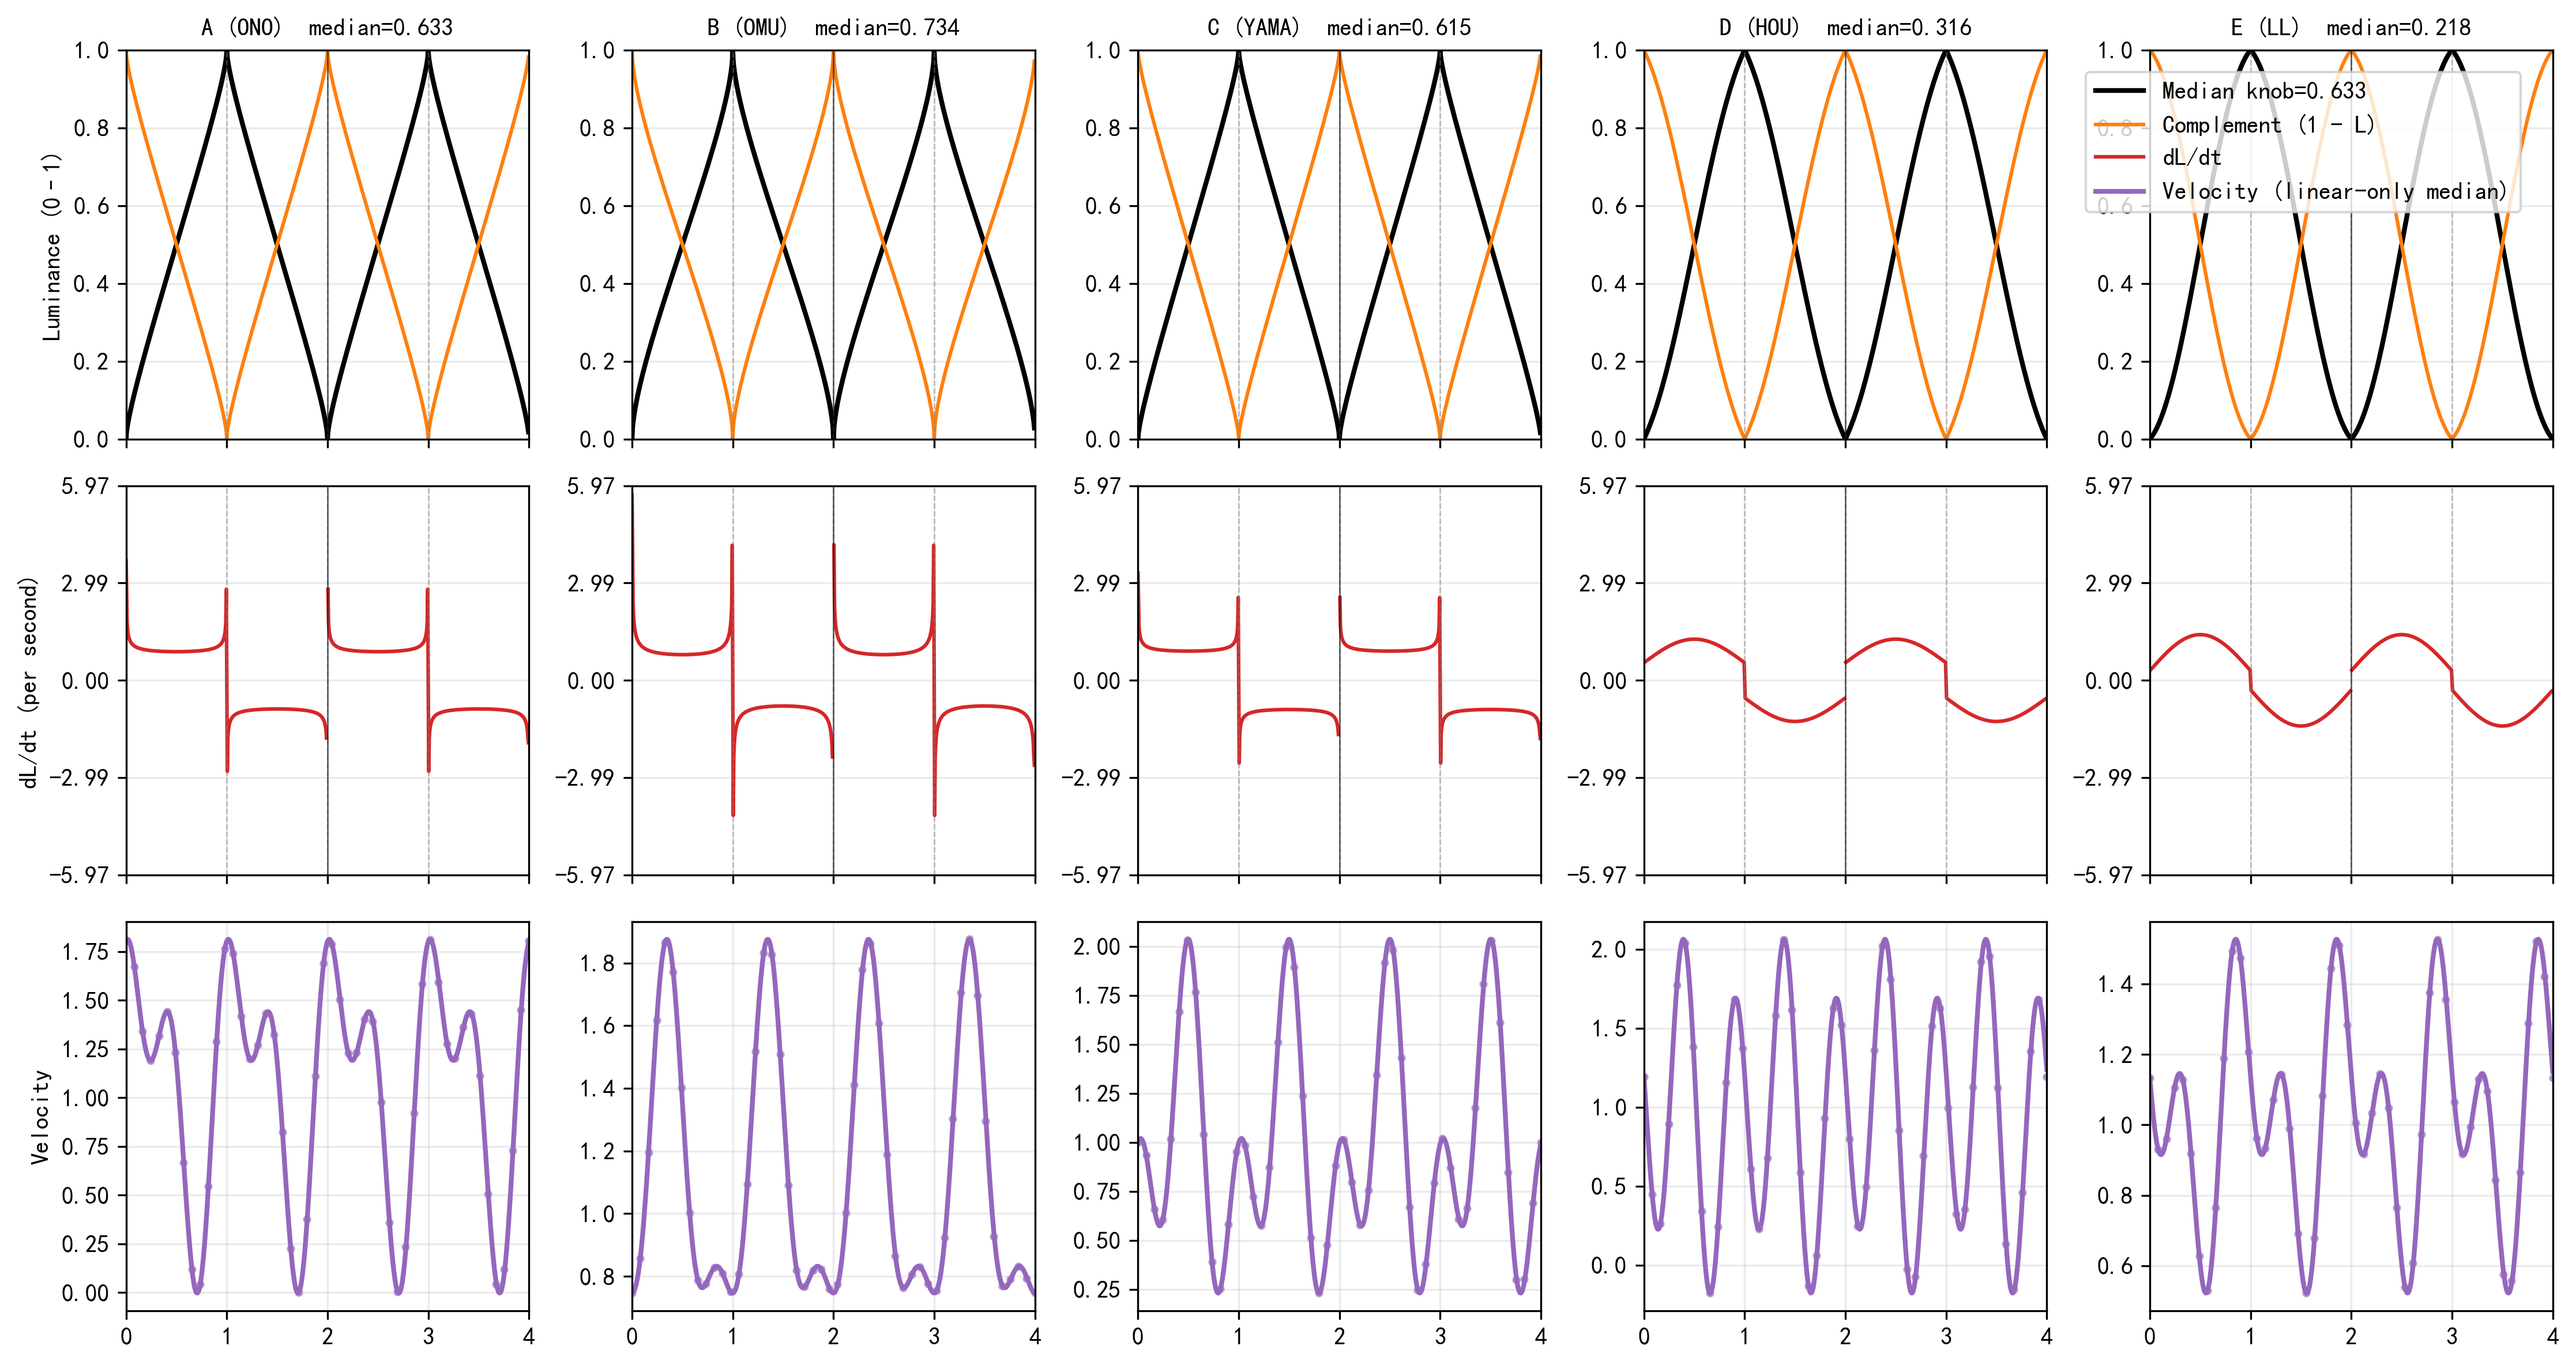
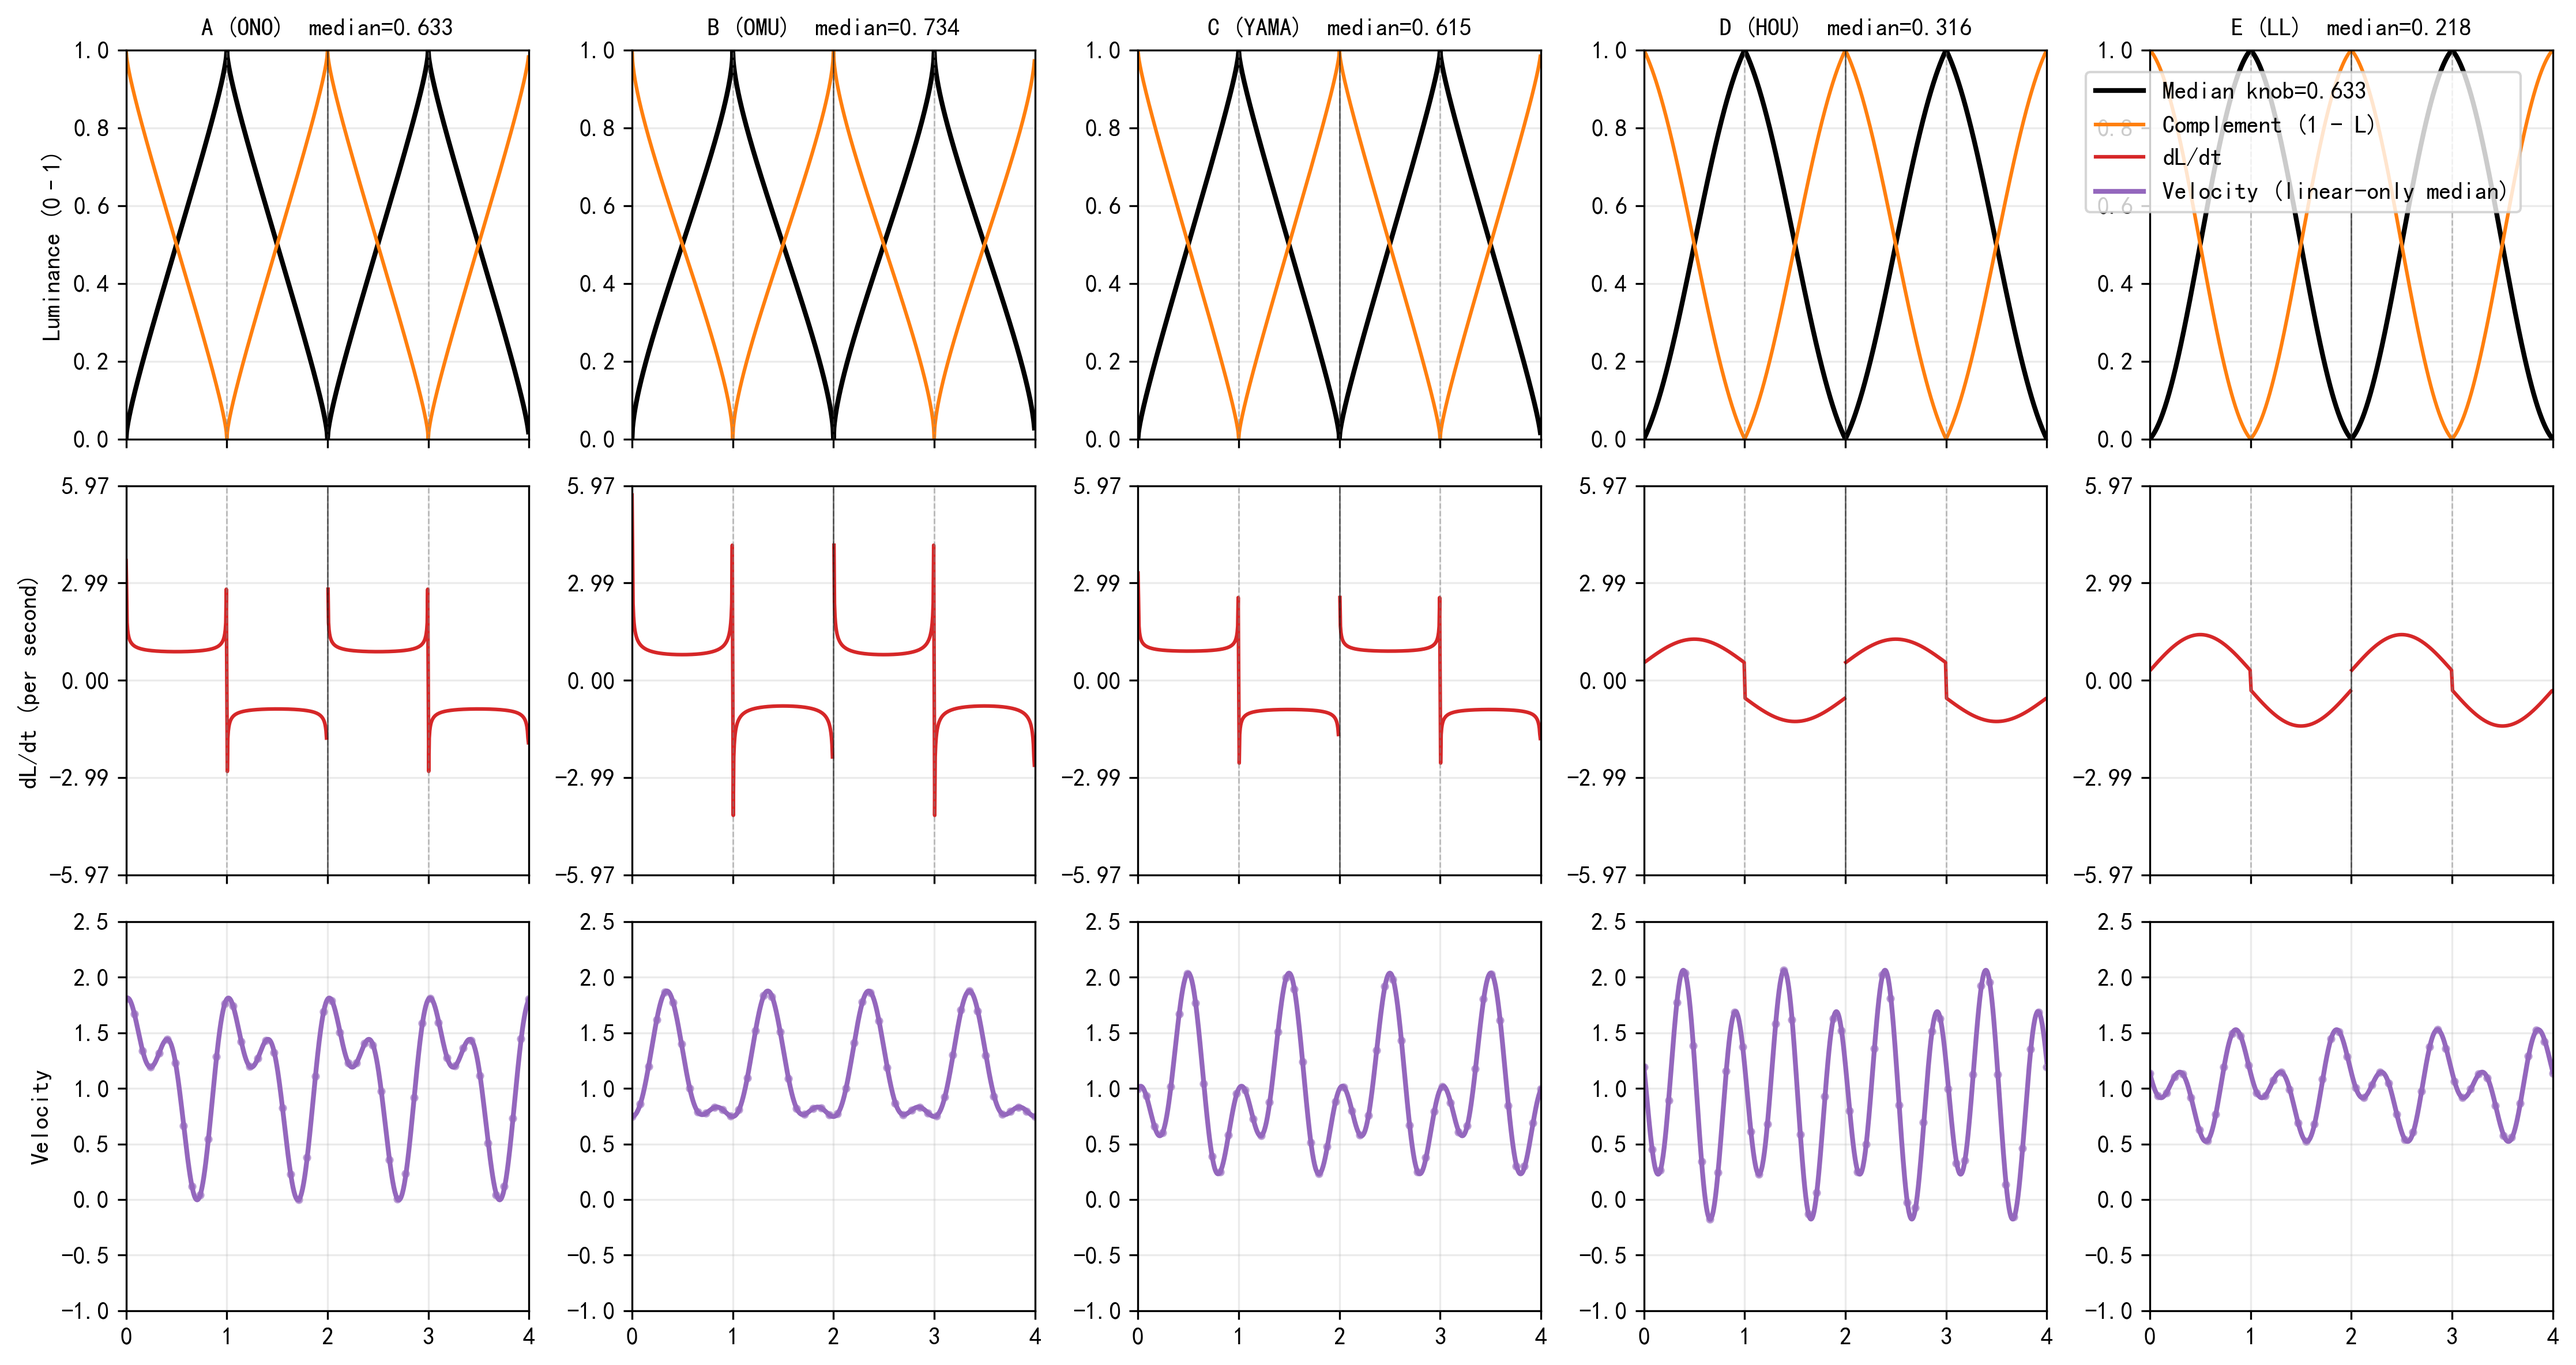
11

diff --git a/public/velocity_curve_analysis/Comparative_Analysis.py b/public/velocity_curve_analysis/Comparative_Analysis.py
@@ -255,6 +255,7 @@ def load_velocity_results_from_linear_only(data_dir, participants_order, total_s
         if p in participants_order:
             velocity_results[p] = [(t_sec, velocity)]
     return velocity_results
+ 
 
 # ---- main plotting function ----
 def create_function_mix_plot(data_dir, total_seconds=4, samples_per_sec=200):
@@ -325,6 +326,7 @@ def create_function_mix_plot(data_dir, total_seconds=4, samples_per_sec=200):
 
     # 取得 linear-only velocity 结果（内嵌实现）
     velocity_results = load_velocity_results_from_linear_only(data_dir, participants_order, total_seconds)
+
 
     # 将 velocity 结果插值到 x 轴（若可用）
     velocity_interp = {}
@@ -429,13 +431,17 @@ def create_function_mix_plot(data_dir, total_seconds=4, samples_per_sec=200):
                 ax_vel.set_ylabel('Velocity')
         else:
             ax_vel.text(0.5, 0.5, "No velocity data", ha='center', va='center', fontsize=10, color='gray')
+ 
+        ax_vel.set_ylim(-1, 2.5)   # ← 第三排统一范围
 
         ax_top.set_xlim(0, total_seconds)
         ax_bot.set_xlim(0, total_seconds)
         ax_vel.set_xlim(0, total_seconds)
+
         ax_top.set_xticks([])  # 顶部不显示 x 刻度
         ax_bot.set_xticks([])  # 中间不显示 x 刻度
         ax_vel.set_xticks(list(range(0, total_seconds + 1)))
+
         if i == 0:
             ax_top.set_ylabel('Luminance (0–1)')
             ax_bot.set_ylabel('dL/dt (per second)')
@@ -464,7 +470,7 @@ def create_function_mix_plot(data_dir, total_seconds=4, samples_per_sec=200):
             dy = dys_by_participant[participant]
             val_at_1 = float(np.interp(1.0, x, y))
             deriv_at_1 = float(np.interp(1.0, x, dy))
-            print(f"{label} ({participant}): median knob = {median_knob:.3f}, L(1.0)={val_at_1:.3f}, dL/dt(1.0)={deriv_at_1:.3f}")
+            print(f"{label} ({participant}): median, L(1.0)={val_at_1:.3f}, dL/dt(1.0)={deriv_at_1:.3f}")
         else:
             print(f"{label} ({participant}): No data")
 
